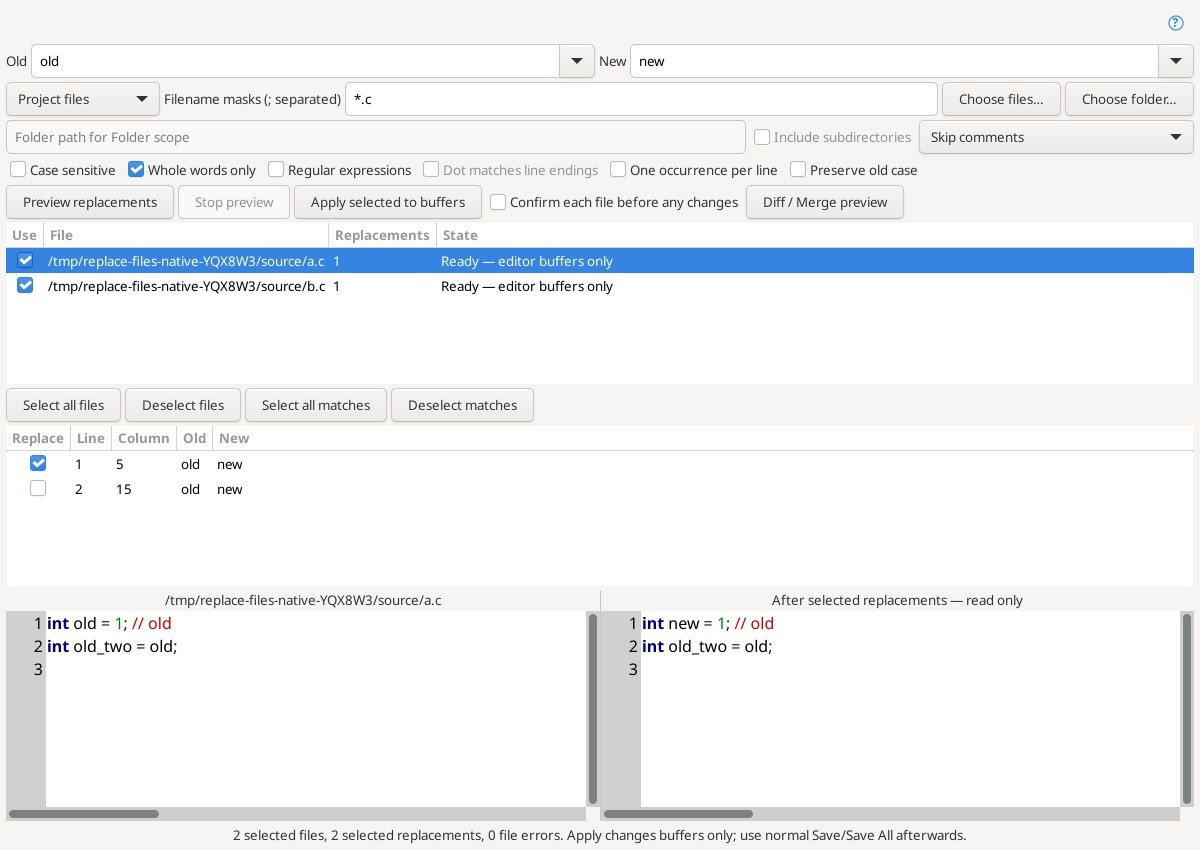
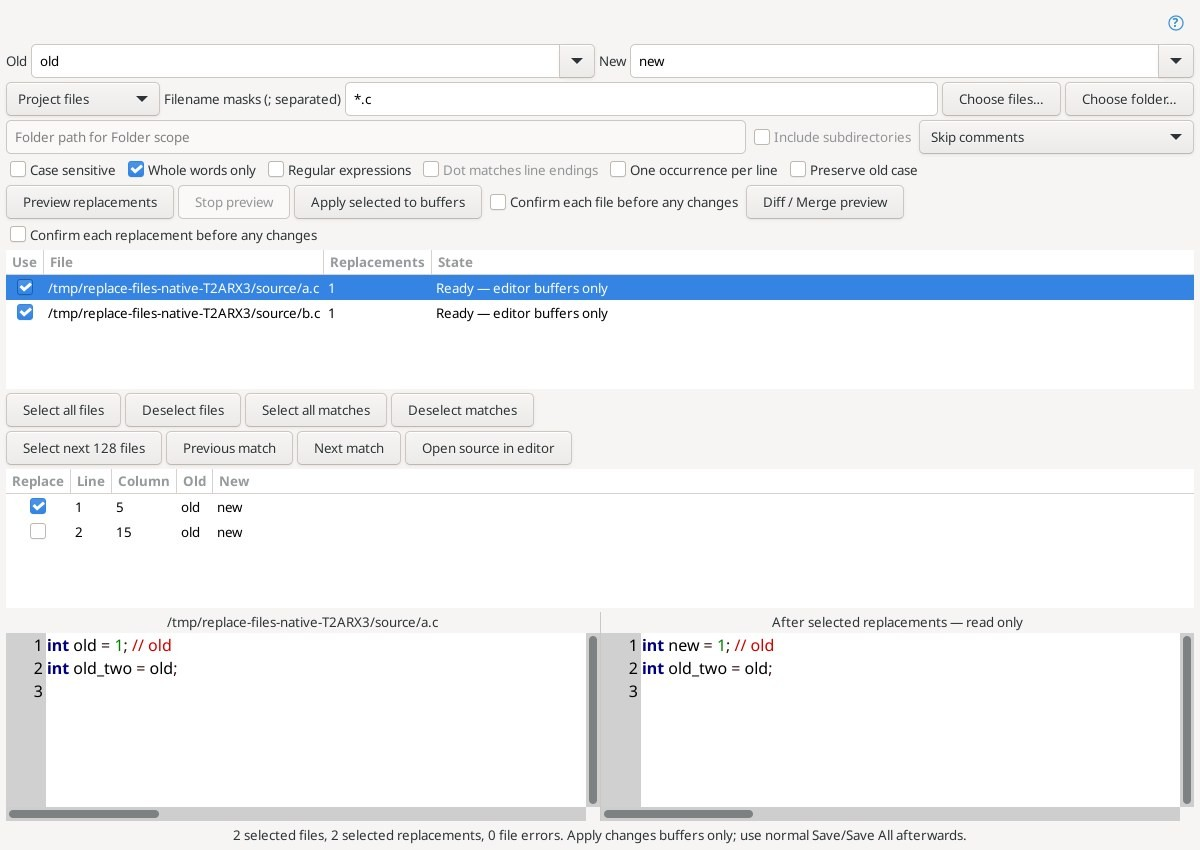
Document verified staged review and remaining batches with native captures

diff --git a/insight/docs/replace-files.md b/insight/docs/replace-files.md
@@ -37,6 +37,10 @@
 
 ## Применение и подтверждение
 
+![Нативное подтверждение отдельной замены](media/replace-review.jpg)
+
+Настоящее модальное подтверждение поверх окна полной Linux-сборки под Xvfb; исходники — синтетические тестовые примеры. Оба снимка с новыми кнопками пакетов и переходов получены прогоном 39616085928, код `0f6d1549055ac635e85c969660baa0c12d2ce7a2`.
+
 **Confirm each file before any changes** запрашивает Replace / Skip / Cancel для каждого выбранного файла. Решения собираются до изменения буферов: Cancel отменяет весь ещё не применённый пакет. Индивидуальные совпадения подтверждаются флажками таблицы.
 
 **Confirm each replacement before any changes** открывает подтверждение с файлом, строкой, колонкой и ограниченными фрагментами до/после; кандидат выделен в цветном предпросмотре. **Replace occurrence / Skip replacement / Replace remaining / Cancel batch** накапливают решения до изменения исходников. Replace remaining принимает оставшиеся включённые совпадения текущего пакета во всех файлах. Сначала выполняются подтверждения файлов. Cancel отбрасывает все накопленные решения, сохраняя прежние флажки и буферы. Перед применением результат заново проверяется, включая ограничения размера. Параметры подтверждения действуют в текущем окне.
@@ -53,6 +57,6 @@ Readonly-буферы и readonly-файлы не разблокируются. 
 
 Нативные Linux-тесты проверяют настоящий проект, меню и клавиши, маски, лексические области, цветные readonly-предпросмотры и номера строк, отдельные совпадения, устаревшие/readonly-источники, Skip/Cancel подтверждений, Undo каждого файла, неизменность диска, рекурсивную папку, историю и отмену просмотра. Отдельный тест ядра проверяет Unicode/CRLF, группы, нулевые совпадения, ограничения Regex и точные границы комментариев. Windows и Android не запускались.
 
-Первая реализация проверена: Linux, полная сборка и установка, **71/71 тестов успешно**, [прогон 39609587088](https://github.com/bhgv/geany-insight/actions/runs/39609587088), код `2ce4631551103cbed25147159c35c4df6a9d2b3a`. Снимок выше получен этим прогоном.
+Linux: полная сборка и установка, **72/72 тестов успешно**, [прогон 39616948566](https://github.com/bhgv/geany-insight/actions/runs/39616948566), код `b6ebd9315d2ade5422b93410f073121d1360bd89`. Проверены Cancel/Skip/Remaining, изменение критериев и исходника во время подтверждения, циклическая навигация, переход в редактор, исключение уже применённых файлов и 131 файл пакетами 128+3 с одним Undo для каждого и неизменным диском. Тесты ядра дополнительно проверяют неизменность плана при расчёте решений, превышение размера при пропуске части замен и позиции пропущенных совпадений.
 
 Ориентир: [Source Insight Replace Files](https://www.sourceinsight.com/doc/v4/userguide/Manual/Command_Reference/Replace_Files.htm). Не перенесены автоматическое сохранение и принудительное изменение readonly, Skip Inactive Code и точный старый диалект регулярных выражений Source Insight.

diff --git a/insight/docs/en/replace-files.md b/insight/docs/en/replace-files.md
@@ -37,6 +37,10 @@ Full read-only **before/after** panes have syntax colors and line numbers. Selec
 
 ## Apply and confirmation
 
+![Native occurrence confirmation](../media/replace-review.jpg)
+
+Actual modal review over the complete Linux editor window under Xvfb, using synthetic source fixtures. Both screenshots show the new batch/navigation controls and come from run 39616085928, code `0f6d1549055ac635e85c969660baa0c12d2ce7a2`.
+
 **Confirm each file before any changes** offers Replace / Skip / Cancel per file. Decisions are collected before buffer changes, so Cancel aborts the unmodified batch. **Confirm each replacement before any changes** additionally opens a modal review with file, line, column, bounded old/new snippets and the candidate highlighted behind it. **Replace occurrence / Skip replacement / Replace remaining / Cancel batch** stage choices without source edits. Replace remaining accepts the remaining enabled occurrences in this batch across files. All file confirmations run first. Cancel discards all staged occurrence choices and leaves the match checkboxes and buffers unchanged. Reviewed results are validated again, including size limits, before application. Confirmation options are local to the window.
 
 All selected sources are preflighted: document identity, filename, complete text and read-only state. Closed files are reread, opened in the editor and their decoded buffers rechecked before mutation. A preflight mismatch aborts the batch; newly opened unchanged tabs may remain open.
@@ -51,6 +55,6 @@ Up to 2,000 inputs; 1 MiB per source/result; 16 MiB source total, 32 MiB result 
 
 Native Linux tests exercise a real project, menu/key routing, masks, lexical regions, colored/numbered read-only previews, individual choices, stale/read-only guards, per-file Skip/Cancel, one Undo per file, unchanged disk, folder recursion, history and cancellation. Core tests cover Unicode/CRLF, captures, zero-width matches, regex bounds and exact comment membership. Windows and Android were not run.
 
-Initial implementation validated on Linux: complete build and installation, **71/71 tests passed**, [run 39609587088](https://github.com/bhgv/geany-insight/actions/runs/39609587088), code `2ce4631551103cbed25147159c35c4df6a9d2b3a`. The capture above comes from this run.
+Linux: complete build and installation, **72/72 tests passed**, [run 39616948566](https://github.com/bhgv/geany-insight/actions/runs/39616948566), code `b6ebd9315d2ade5422b93410f073121d1360bd89`. This includes staged Cancel/Skip/Remaining choices, criteria/source changes during review, wrapped navigation, editor handoff, applied-file exclusion and 131 files in 128+3 batches with one Undo per file and unchanged disk. Core tests additionally verify immutable review vectors, oversized subsets and offsets for skipped occurrences.
 
 Reference: [Source Insight Replace Files](https://www.sourceinsight.com/doc/v4/userguide/Manual/Command_Reference/Replace_Files.htm). Automatic saving, forced read-only edits, Skip Inactive Code and Source Insight's exact legacy regex dialect are not implemented.

diff --git a/insight/docs/progress.md b/insight/docs/progress.md
@@ -1990,3 +1990,29 @@ Added Whole Result / Selection / Current position to end scope selector, shared 
 Merged Ctrl+F/native repeat commands with the File Search Bar; compact Source Insight arrangement and options include wrap, selection, incremental search and button word loading. Merged native ctags structure and rich Insight list into one File Symbols page with one query and explicit modes. Native structure is default; custom square type badges, pale background, bold structural declarations and bottom sorting follow the official visual reference. Platform rendering and parser differences remain; pixel identity and unimplemented SI search dialect/context features are not claimed. [Guide](unified-file-tools.md).
 
 Unified file tools validation: source commit `6b07ca9`, [Linux CI](https://github.com/bhgv/geany-insight/actions/runs/39337698410), complete editor build/install and 29 tests passed with zero failures/skips. Includes large-file literal/regex search, caret-only backward navigation, prefix-stable incremental search, query history, one shared symbol page, actual native class/member nesting and mapped focus. Real full-editor capture: [JPEG](media/unified-file-tools.jpg). Windows and Android were not executed for this series.
+
+
+## 2026-10-21 — staged Replace Files review and remaining batches
+
+Replace Files now stages modal per-occurrence Replace / Skip / Replace remaining /
+Cancel decisions before any buffer edits. File confirmations run first; Cancel
+preserves the occurrence checkboxes and every source buffer. Independent review
+vectors render without mutating the original plan and are checked for size again.
+
+Preview selects at most 128 eligible files. Applied sources remain marked and
+excluded, including after editor Undo; Select next 128 files continues the same
+snapshot rather than rematching replacement text. Each batch rechecks its sources.
+Added wrapped Previous/Next and F3/Shift+F3 preview navigation plus guarded source
+handoff without closing the review window. Manual source edits require a new
+Preview; snapshots do not automatically reload on focus.
+
+Validation: complete Linux build/install and 72/72 tests passed, code
+`b6ebd9315d2ade5422b93410f073121d1360bd89`,
+[run 39616948566](https://github.com/bhgv/geany-insight/actions/runs/39616948566).
+The new native fixture checks cancelled/staged decisions, Skip/remaining across
+files, source/criteria changes during review, wrapped navigation, source handoff,
+applied-file exclusion, 131 files in 128+3 batches, individual Undo and unchanged
+disk. Core checks cover immutable decisions, oversized subsets and skipped-match
+offsets. RU/EN help and installed SVG/JPEG assets are updated. The captures are
+real complete-editor GTK windows under Xvfb with synthetic sources from the
+preceding successful 72-test run 39616085928. Windows/Android were not executed.

diff --git a/insight/docs/media/README.md b/insight/docs/media/README.md
@@ -48,4 +48,7 @@ Keep screenshots current when visible behavior changes. Favor small, useful illu
 
 `replace-files.svg`: self-contained diagram of scope capture, selected replacement plans and guarded buffer application.
 
-`replace-files.jpg`: actual Replace Files window in the complete Linux editor under Xvfb, native run 39609587088 (code 2ce4631551103cbed25147159c35c4df6a9d2b3a). Source files and project are synthetic fixtures. One occurrence is deselected and comments are skipped. Optimized JPEG, metadata stripped.
+`replace-files.jpg` and `replace-review.jpg`: actual Replace Files window and modal occurrence review in the complete Linux editor under Xvfb, native run 39616085928 (code 0f6d1549055ac635e85c969660baa0c12d2ce7a2). Source/project data are synthetic fixtures. The overview deselects an occurrence and skips comments; the review shows staged decisions. Optimized JPEGs, metadata stripped.
+
+
+`replace-files-review.svg`: self-contained diagram of staged file/occurrence decisions, cancellation, source rechecks and remaining batches excluding applied files.

diff --git a/insight/docs/guide.md b/insight/docs/guide.md
@@ -103,3 +103,5 @@ Options → Language profiles… и контекстное меню редакт
 
 
 [Replace Files: предварительный просмотр, выбор совпадений и замена в нескольких буферах](replace-files.md).
+
+В Replace Files доступны диалоги Replace/Skip/Remaining/Cancel, переходы F3/Shift+F3 и Open source in editor. Select next 128 files продолжает оставшийся план снимка, исключая уже применённые файлы.

diff --git a/insight/docs/search-replace.md b/insight/docs/search-replace.md
@@ -166,3 +166,5 @@ See [the unified File Search and File Symbols interface](unified-file-tools.md).
 
 
 [Replace Files: предварительный просмотр, выбор совпадений и замена в нескольких буферах](replace-files.md).
+
+В Replace Files доступны диалоги Replace/Skip/Remaining/Cancel, переходы F3/Shift+F3 и Open source in editor. Select next 128 files продолжает оставшийся план снимка, исключая уже применённые файлы.

diff --git a/insight/docs/en/search-replace.md b/insight/docs/en/search-replace.md
@@ -163,3 +163,5 @@ See [the unified File Search and File Symbols interface](unified-file-tools.md).
 
 
 [Replace Files: preview, individual choices and guarded multi-buffer replacement](replace-files.md).
+
+Replace Files also offers modal Replace/Skip/Remaining/Cancel review, F3/Shift+F3 preview navigation and Open source in editor. Select next 128 files continues the remaining snapshot plan while keeping applied files excluded.

diff --git a/insight/docs/en/guide.md b/insight/docs/en/guide.md
@@ -95,3 +95,5 @@ Full reference: [Search and replacement modes and query languages](search-replac
 
 
 [Replace Files: preview, individual choices and guarded multi-buffer replacement](replace-files.md).
+
+Replace Files also offers modal Replace/Skip/Remaining/Cancel review, F3/Shift+F3 preview navigation and Open source in editor. Select next 128 files continues the remaining snapshot plan while keeping applied files excluded.
